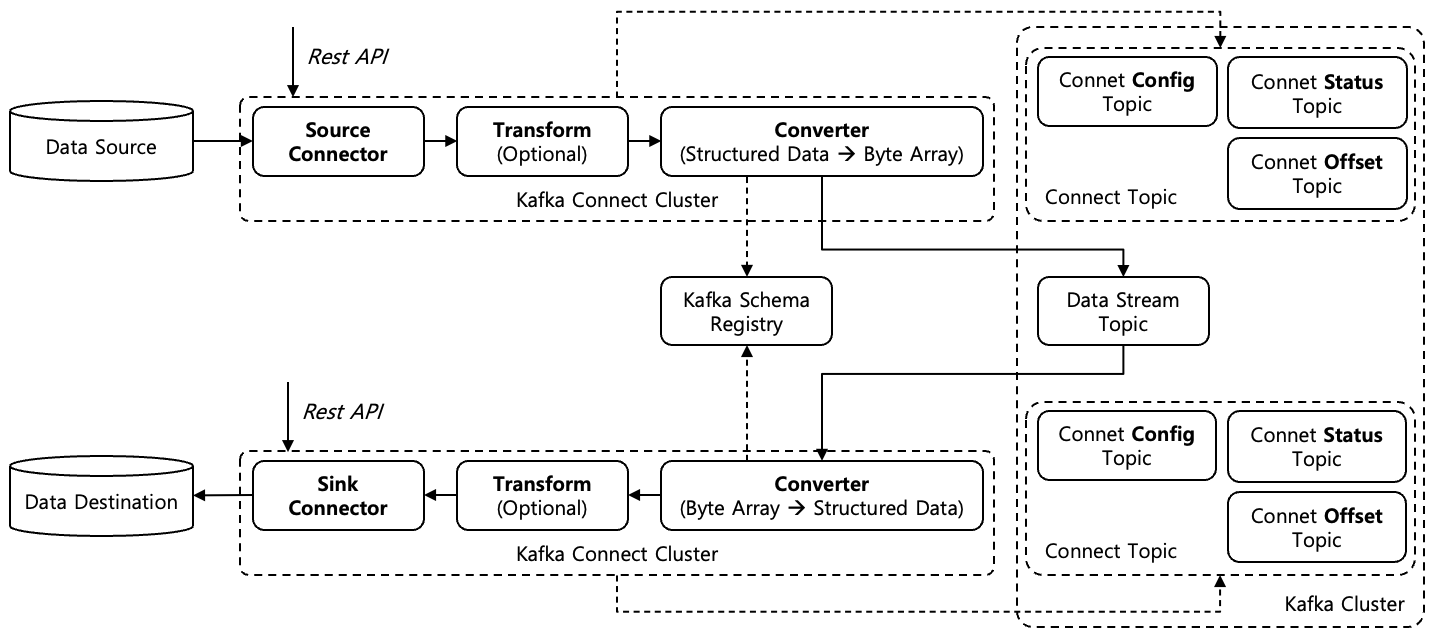
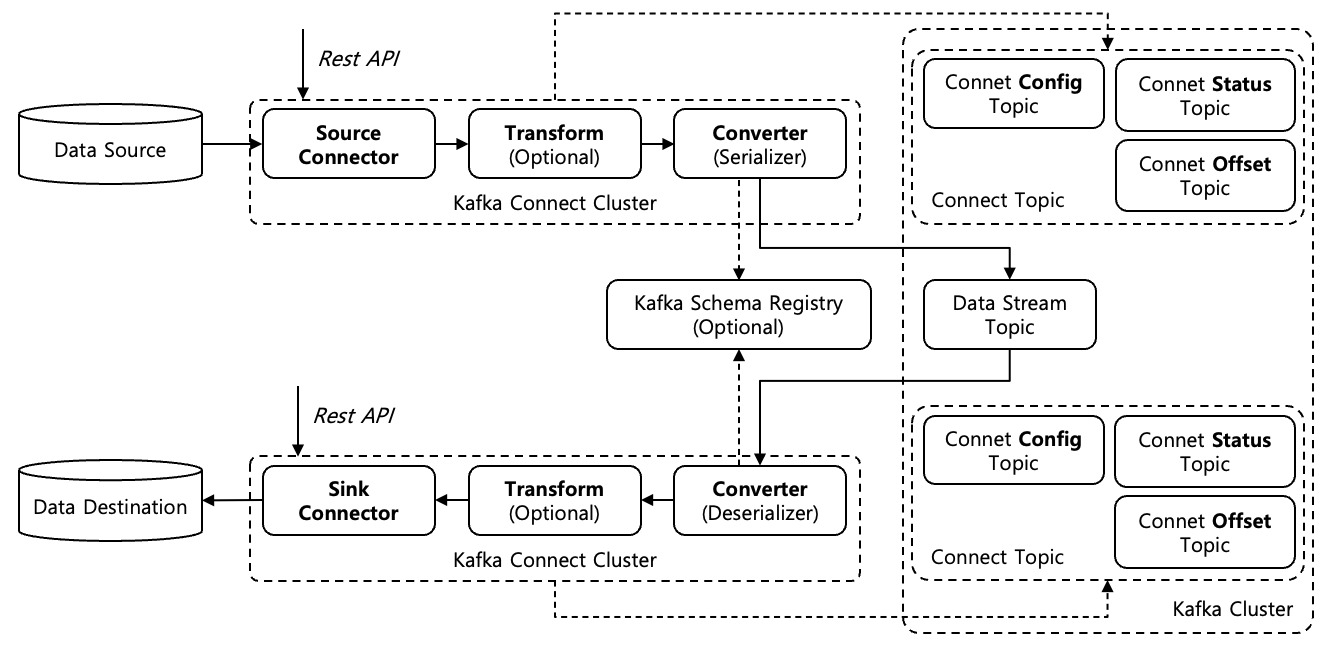
update

diff --git a/content/docs/theory-analysis/kafka-connect/index.md b/content/docs/theory-analysis/kafka-connect/index.md
@@ -7,7 +7,7 @@ Kafka Connect에 대해서 분석한다.
 
 ## 1. Kafka Connect
 
-{{< figure caption="[Figure 1] Kafka Connect" src="images/kafka-connect-architecture.png" width="1000px" >}}
+{{< figure caption="[Figure 1] Kafka Connect" src="images/kafka-connect-architecture.png" width="900px" >}}
 
 Kafka Connect는 Kafka를 기반으로 외부의 Data 저장소와 연동하여 Data Stream 구축을 도와주는 도구이다. [Figure 1]은 Kafka Connect의 Architecture를 나타내고 있으며 다음과 같은 구성요소로 이루어져 있다.
 
@@ -15,30 +15,25 @@ Kafka Connect는 Kafka를 기반으로 외부의 Data 저장소와 연동하여 
 * **Data Destination** : Data Stream의 도착점이 되는 Data 저장소.
 * **Kafka Connect Cluster** : Data 저장소와 Kakfa 사이에서 Data Stream을 주고받는 Kafka Connect, Transform, Converter를 관리한다. **Rest API**를 통해서 원격에서 관리가 가능하다. 하나 또는 다수의 **Worker**로 구성되어 있다.
   * **Connector** : Data 저장소와 Converter 사이에서 실제로 Data Stream을 주고받는 역할을 수행한다. Data Source와 연동되는 Connector를 **Source Connector**, Data Destination와 연동되는 Connector를 **Destination Connector**라고 명칭한다.
-  * **Converter** : Connector와 Kafka 사이에서 Data Format(JSON, Protobuf, Avro...)을 변환하는 역할을 수행한다.
-  * **Transform** : Connector와 Converter 사이에서 간단한 Data 변환을 수행하는 역할을 수행한다. 필수 요소는 아니며, 선택적으로 사용할 수 있다.
+  * **Converter** : Connector와 Kafka 사이에서 Data 직렬화/역직렬화를 수행한다.
+  * **Transform** : Connector와 Converter 사이에서 간단한 Data 변환을 수행한다. 필수 요소는 아니며 선택적으로 사용할 수 있다.
 * **Kafka Cluster, Data Stream Topic** : Connector가 처리한 Data Stream을 저장하는 Kafka Topic.
-* **Kafka Cluster, Connect Topic** : 
+* **Kafka Cluster, Connect Topic** : Kafka Connect의 설정/상태 정보를 저장하는 Kafka Topic. Kafka Connect Cluster는 설정/상태 정보를 저장하기 위해서 Database를 이용하지 않으며 Kafka Topic을 이용하여 이를 구현하고 있다. 각 Kafka Connect Cluster는 별도의 Config, Offset, Status Kafka Topic을 이용한다.
   * **Config** : Kafka Connect Cluster의 설정 정보를 저장하는 Topic.
   * **Offset** : Kafka Connect Cluster이 Data Stream을 어디까지 처리했는지를 나타내는 오프셋 정보를 저장하는 Topic.
   * **Status** : Kafka Connect Cluster의 상태 정보를 저장하는 Topic.
+* **Kafka Schema Registry** : Converter에서 Data 직렬화/역직렬화를 수행하기 위해서 필요한 Schema 정보를 저장하고 관리한다.
 
 ### 1.1. Worker
 
 {{< figure caption="[Figure 2] Kafka Connect Worker Standalone Mode" src="images/kafka-connect-worker-standalone.png" width="550px" >}}
 
-Kafka Connect Cluster는 하나의 Worker로만 구성하는 **Standalone Mode**와 다수의 Worker로 구성하는 **Distributed Mode**로 구성될 수 있다. [Figure 2]는 **Standalone Mode**를 나타내고 있으며, Worker에서 동작하는 Connector, Converter, Transform도 같이 나타내고 있다. Connector는 다시 **Connector Instance**와 **Connector Task**로 구성되며, 다음의 역할을 수행한다.
+Kafka Connect Cluster는 하나 또는 다수의 **Worker**로 구성된다. 하나의 Worker로 구성되는 경우 **Standalone Mode**로 동작하며, 다수의 Worker로 구성되는 경우 **Distributed Mode**로 동작한다. [Figure 2]는 **Standalone Mode**를 나타내고 있으며, Worker에서 동작하는 Connector, Converter, Transform도 같이 나타내고 있다. Connector는 다시 **Connector Instance**와 **Connector Task**로 구성되며, 다음의 역할을 수행한다.
 
 * **Connector Instance** : 다수의 Data Stream을 설정에 따라서 다수의 Task로 분배하여 생성하는 역할을 수행한다. 또한 Data 저장소의 상태를 모니터링하며 이에 따라서 Task를 적절하게 재구성 하는 역할도 수행한다. 일반적으로 각 Task마다 고유의 **Partition**을 할당받아 별도의 Data Stream을 구성하여 동작하며, [Figure 2]에서도 Task마다 할당된 Partition을 확인할 수 있다.
 * **Connector Task** : Connector Instance에 의해서 생성되며, 실제로 Data 저장소에 접근하여 Data Stream을 주고받는 역할을 수행한다.
 
-Worker는 하나의 **Process**를 의미하며, Connector Instance와 Connector Task는 각각 별도의 **Thread**를 할당받아 동작한다. 따라서 하나의 Worker에서 다수의 Connector Instance와 Connector Task가 동작 가능하다. Converter와 Transform은 **Class Instance**이며 Connector Task에서 Method를 통해서 호출되어 동작한다.
-
-Kafka Connect Cluster는 설정/상태 관련 정보를 저장하기 위헤 별도의 Database를 사용하지 않고 Kafka Topic에 저장하여 이용한다. Kafka Connect Cluster가 이용하는 Kafka Topic은 다음과 같다.
-
-* **Config** : Kafka Connect Cluster의 설정 정보를 저장하는 Topic.
-* **Offset** : Kafka Connect Cluster이 Data Stream을 어디까지 처리했는지를 나타내는 오프셋 정보를 저장하는 Topic.
-* **Status** : Kafka Connect Cluster의 상태 정보를 저장하는 Topic.
+Worker는 하나의 **Process**로 동작하며, Connector Instance와 Connector Task는 각각 별도의 **Thread**를 할당받아 동작한다. 따라서 하나의 Worker에서 다수의 Connector Instance와 Connector Task가 동작 가능하다. Converter와 Transform은 **Class Instance**이며 Connector Task에서 Method를 통해서 호출되어 동작한다.
 
 {{< figure caption="[Figure 3] Kafka Connect Worker Distributed Mode" src="images/kafka-connect-worker-distributed.png" width="550px" >}}
 
@@ -75,11 +70,14 @@ Distributed Mode로 동작하는 경우에도 Leader Worker 뿐만 아니라 모
 
 ### 1.2. Converter
 
-Converter는 Connector와 Kafka 사이에서 Data Format을 변환하는 역할을 수행한다. [Figure 1]에서 확인할 수 있는것 처럼 Data Source 쪽의 Converter는 구조화된 Data를 Byte Array로 변환하는 역할을 수행하며, Data Destination 쪽의 Converter는 Byte Array를 구조화된 Data로 변환하는 역할을 수행한다. Converter는 Class Instance로 존재하며, 기본적으로 지원하는 Data Format과 관련 Class는 다음과 같다.
+Converter는 Connector와 Kafka 사이에서 Data 직렬화/역직렬화를 수행한다. [Figure 1]에서 확인할 수 있는것 처럼 Data Source 쪽의 Converter는 Serializer, 즉 구조화된 Data를 Byte Array로 변환하는 역할을 수행하며, Data Destination 쪽의 Converter는 Deserializer, 즉 Byte Array를 구조화된 Data로 변환하는 역할을 수행한다. Converter는 Class Instance로 존재하며, 기본적으로 지원하는 Data Format과 관련 Class는 다음과 같다. Kafka Schema Registry를 이용하는 Converter와 이용하지 않는 Converter로 구분할 수 있다.
 
-* **org.apache.kafka.connect.json.JsonConverter** : JSON 형식의 변환을 지원.
-* **org.apache.kafka.connect.avro.AvroConverter** : Avro 형식의 변환을 지원.
-* **org.apache.kafka.connect.protobuf.ProtobufConverter** : Protobuf 형식의 변환을 지원.
+| Converter | Kafka Schema Registry | Description |
+| --- | --- | --- |
+| io.confluent.connect.avro.AvroConverter | Yes | Avro 형식의 변환을 지원. |
+| io.confluent.connect.protobuf.ProtobufConverter | Yes | Protobuf 형식의 변환을 지원. |
+| io.confluent.connect.json.JsonSchemaConverter |
+| org.apache.kafka.connect.json.JsonConverter | No | JSON 형식의 변환을 지원. |
 
 ### 1.3. Transform
 
